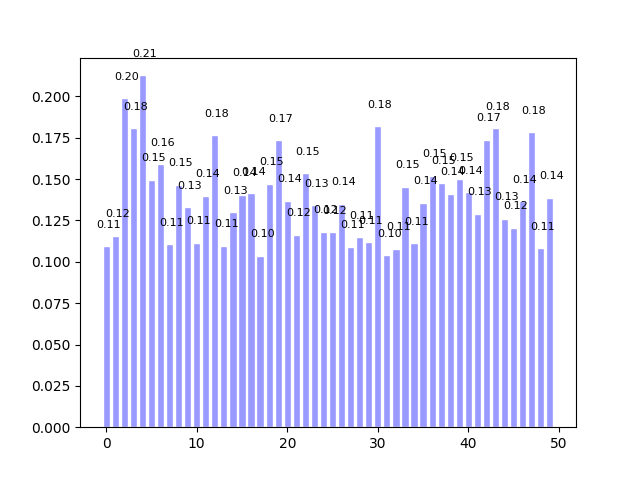
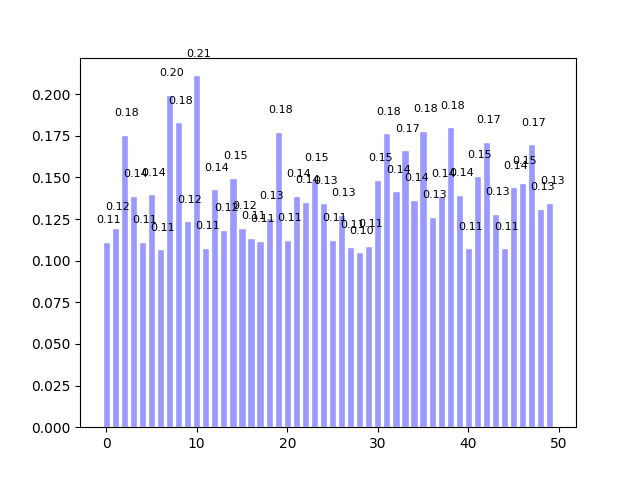
JF

diff --git a/hw2/problem3/main.py b/hw2/problem3/main.py
@@ -56,28 +56,29 @@ plt.savefig('pic/3_2pca_cluster.png')
 #                    problem 3.3                              #
 ###############################################################
 '''
-'''
-feature=[]
-for d in os.listdir('train-10'):
-    for f in os.listdir('train-10/{}'.format(d)):
-        dm.read_image('image','train-10/{}/{}'.format(d,f),mode='rgb')
-        feature.append(dm.surf_detect(dm.data['image']))
-feature=np.concatenate(feature,0)
+train_dir='train-10'
+test_dir='test-100'
+train_dir_list=os.listdir(train_dir)
+test_dir_list=os.listdir(test_dir)
+data=[]
+for d in train_dir_list:
+    for f in os.listdir('{}/{}'.format(train_dir,d)):
+        dm.read_image('image','{}/{}/{}'.format(train_dir,d,f),mode='rgb')
+        data.append(dm.surf_detect(dm.data['image']))
+data=np.array(data)
+feature=np.concatenate(data,0)
 dm.kmeans_construct(feature)
 
-dm.read_image('image','train-10/Forest/image_0003.jpg',mode='rgb')
 mode=[('soft','max'),('soft','sum'),('hard','sum')]
-for  i in mode:
-    assign_=dm.kmeans_assign(dm.surf_detect(dm.data['image']),mode=i[0])
-    #print(assign_.shape)
-    emb=dm.pooling(assign_,mode=i[1])
-    #print(emb.shape)
-    dm.plot_bar(emb,'pic/3_3_histogram_{}_{}.png'.format(i[0],i[1]))
-'''
+for  m in mode:
+    for j in range(5):
+        emb=dm.embedding(data[j*10],mode=m)
+        dm.plot_bar(emb,'class{}_{}_{}'.format(train_dir_list[j],m[0],m[1]),'pic/3_3_class{}_{}_{}.png'.format(train_dir_list[j],m[0],m[1]))
 '''
 ###############################################################
 #                    problem 3.3                              #
 ###############################################################
+'''
 '''
 train_dir='train-10'
 test_dir='test-100'
@@ -111,4 +112,5 @@ for m in mode:
     pred=np.array([dm.KNN_predict([dm.embedding(i,m)])[0] for i in test_x])
     correct=(test_y==pred).sum()
     print('Mode {} {} | Accuracy: {}%'.format(m[0],m[1],100.*correct/len(pred)))
+'''
 '''

diff --git a/hw2/problem3/util.py b/hw2/problem3/util.py
@@ -58,7 +58,6 @@ class Datamanager:
         if mode=='sum':
             res=np.sum(data,0)
             res/=np.linalg.norm(res)
-            print(np.linalg.norm(res))
             return res
         elif mode=='max':
             return np.max(data,0)
@@ -78,7 +77,7 @@ class Datamanager:
         plt.imshow(data)
         #plt.show()
         plt.savefig(path)
-    def plot_bar(self,data,path):
+    def plot_bar(self,data,title,path):
         plt.figure()
         x=np.arange(data.shape[0])
         plt.bar(x, data, facecolor='#9999ff', edgecolor='white')
@@ -86,6 +85,7 @@ class Datamanager:
             # ha: horizontal alignment
             # va: vertical alignment
             plt.text(x + 0.25, y + 0.01, '%.2f' % y,ha='center', va='bottom',size=8) 
+        plt.title(title)
         #plt.show()
         plt.savefig(path)
     def embedding(self,points,mode):
